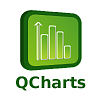
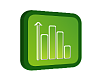
Fix documentation header
Removed "QCharts" from the image and added "Qt Charts" as text
below it. Easier to maintain when the text is not part of the image.

Changed region(s): [[0.15, 0.1, 0.87, 0.925]]

diff --git a/doc/style/offline.css b/doc/style/offline.css
@@ -251,6 +251,15 @@
 /* end global settings*/
 
 /* header elements */
+    .header .qtcharts
+    {
+        color: #00732F;
+        font-weight: bold;
+        font-size: 200%;
+        text-align: center;
+        margin: 10px 0px
+    }
+
     .header .qtref
     {
         color: #00732F;
